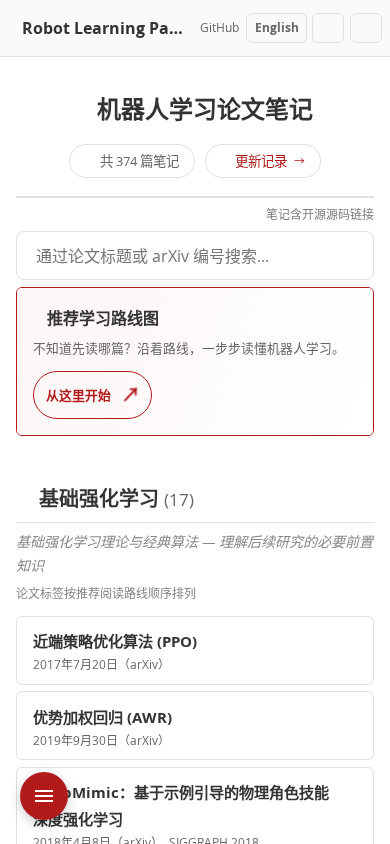
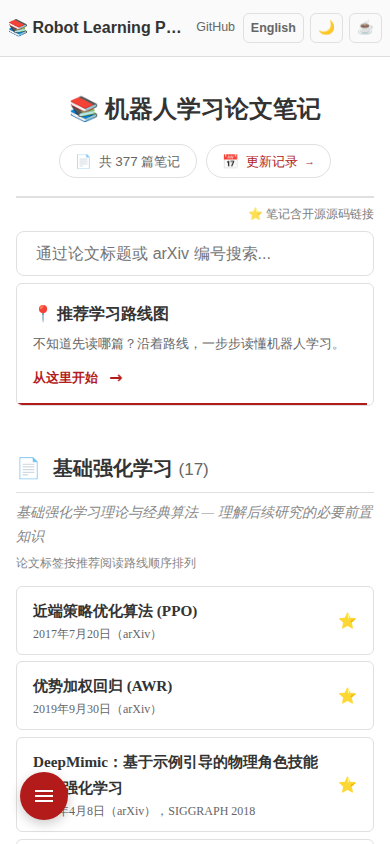
style(Home): 学习路线图入口引导动效改为极简风格
- 去掉描边闪烁、光带扫过与箭头三连跳，改为底边一条 2px 细线描出一次后淡出，箭头随后轻推一次
- 入口去掉渐变背景、强调色边框与 CTA 胶囊描边
- 箭头改为 →，悬停右移、展开后转为 ↑，过渡平滑

Claude-Session: https://claude.ai/code/session_01L5RKEjpgKhGvHGi6w3q2Ta

diff --git a/assets/css/style.css b/assets/css/style.css
@@ -948,10 +948,10 @@ body.index-search-active .paper-list-toggle-group {
   color: var(--text-secondary);
 }
 
-/* A brief invitation on each visit; the native details control stays usable. */
+/* A brief invitation on each visit; the native details control stays usable.
+   Minimal motion: one hairline traces the path once, the arrow nudges once. */
 #roadmap-title {
   padding: 0;
-  border-color: var(--link);
 }
 
 #roadmap-title .roadmap-link-hint,
@@ -970,7 +970,6 @@ body.index-search-active .paper-list-toggle-group {
   overflow: hidden;
   text-transform: none;
   letter-spacing: normal;
-  background: linear-gradient(110deg, var(--blockquote-bg), var(--card-bg));
 }
 
 .roadmap-entry-copy { min-width: 0; }
@@ -986,50 +985,52 @@ body.index-search-active .paper-list-toggle-group {
   display: inline-flex;
   align-items: center;
   flex-shrink: 0;
-  gap: 0.6rem;
-  padding: 0.45rem 0.75rem;
-  border: 1px solid var(--link);
-  border-radius: 999px;
+  gap: 0.5rem;
   color: var(--link);
   font-size: 0.8rem;
 }
-.roadmap-entry-arrow { display: inline-block; font-size: 1.15rem; }
+.roadmap-entry-arrow {
+  display: inline-block;
+  font-size: 1rem;
+  line-height: 1;
+  font-family: system-ui, sans-serif;
+  transition: transform 0.25s ease, color 0.3s ease;
+}
 .roadmap-entry-close { display: none; }
 details[open] > .roadmap-entry .roadmap-entry-start { display: none; }
 details[open] > .roadmap-entry .roadmap-entry-close { display: inline; }
 details[open] > .roadmap-entry .roadmap-entry-arrow { transform: rotate(-90deg); }
-.roadmap-entry:hover { background: var(--blockquote-bg); }
+.roadmap-entry:hover .roadmap-entry-arrow { transform: translateX(3px); }
+details[open] > .roadmap-entry:hover .roadmap-entry-arrow { transform: rotate(-90deg) translateX(3px); }
 .roadmap-entry:focus-visible { outline: 2px solid var(--link); outline-offset: -4px; }
 
-.roadmap-entry.is-inviting { animation: roadmap-invite-glow 3.6s ease-in-out; }
-.roadmap-entry.is-inviting .roadmap-entry-arrow { animation: roadmap-invite-arrow 1.2s ease-in-out 3; }
 .roadmap-entry.is-inviting::after {
   content: '';
   position: absolute;
-  inset: 0;
+  left: 0;
+  right: 0;
+  bottom: 0;
+  height: 2px;
+  background: var(--link);
+  transform-origin: left center;
   pointer-events: none;
-  background: linear-gradient(105deg, transparent 35%, var(--link) 50%, transparent 65%);
-  opacity: 0;
-  animation: roadmap-invite-sweep 1.8s ease-out 2;
+  animation: roadmap-invite-trace 1.6s cubic-bezier(0.65, 0, 0.35, 1) 0.3s both;
 }
-@keyframes roadmap-invite-glow {
-  0%, 50%, 100% { box-shadow: inset 0 0 0 0 transparent; }
-  25%, 75% { box-shadow: inset 0 0 0 2px var(--link); }
+.roadmap-entry.is-inviting .roadmap-entry-arrow { animation: roadmap-invite-nudge 0.6s ease-in-out 1.1s; }
+@keyframes roadmap-invite-trace {
+  0% { transform: scaleX(0); opacity: 1; }
+  70% { transform: scaleX(1); opacity: 1; }
+  100% { transform: scaleX(1); opacity: 0; }
 }
-@keyframes roadmap-invite-arrow {
-  0%, 100% { transform: translate(0, 0); }
-  50% { transform: translate(3px, -3px); }
-}
-@keyframes roadmap-invite-sweep {
-  0% { transform: translateX(-100%); opacity: 0; }
-  30% { opacity: 0.12; }
-  100% { transform: translateX(100%); opacity: 0; }
+@keyframes roadmap-invite-nudge {
+  0%, 100% { transform: translateX(0); }
+  40% { transform: translateX(4px); }
 }
 @media (max-width: 600px) {
   .roadmap-entry { align-items: flex-start; flex-direction: column; gap: 0.75rem; padding: 1rem; }
 }
 @media (prefers-reduced-motion: reduce) {
-  .roadmap-entry.is-inviting,
+  .roadmap-entry-arrow { transition: none; }
   .roadmap-entry.is-inviting .roadmap-entry-arrow,
   .roadmap-entry.is-inviting::after { animation: none; }
 }

diff --git a/index.html b/index.html
@@ -83,7 +83,7 @@ title: "Home"
           <span class="roadmap-entry-cta">
             <span class="roadmap-entry-start" data-en="Start here" data-zh="从这里开始">从这里开始</span>
             <span class="roadmap-entry-close" data-en="Collapse" data-zh="收起路线图">收起路线图</span>
-            <span class="roadmap-entry-arrow" aria-hidden="true">↗</span>
+            <span class="roadmap-entry-arrow" aria-hidden="true">→</span>
           </span>
         </summary>
         <p class="roadmap-link-hint" data-en="Click a paper node to open its note; click elsewhere on the diagram to zoom in." data-zh="点击论文节点跳转到对应笔记；点击图中其他区域可放大查看。">Click a paper node to open its note; click elsewhere on the diagram to zoom in.</p>

diff --git a/assets/js/roadmap-entry.js b/assets/js/roadmap-entry.js
@@ -18,7 +18,7 @@
   }
 
   entry.addEventListener('animationend', function (event) {
-    if (event.target === entry && event.animationName === 'roadmap-invite-glow') finish();
+    if (event.animationName === 'roadmap-invite-trace') finish();
   });
   entry.addEventListener('click', finish);
   details.addEventListener('toggle', function () {
